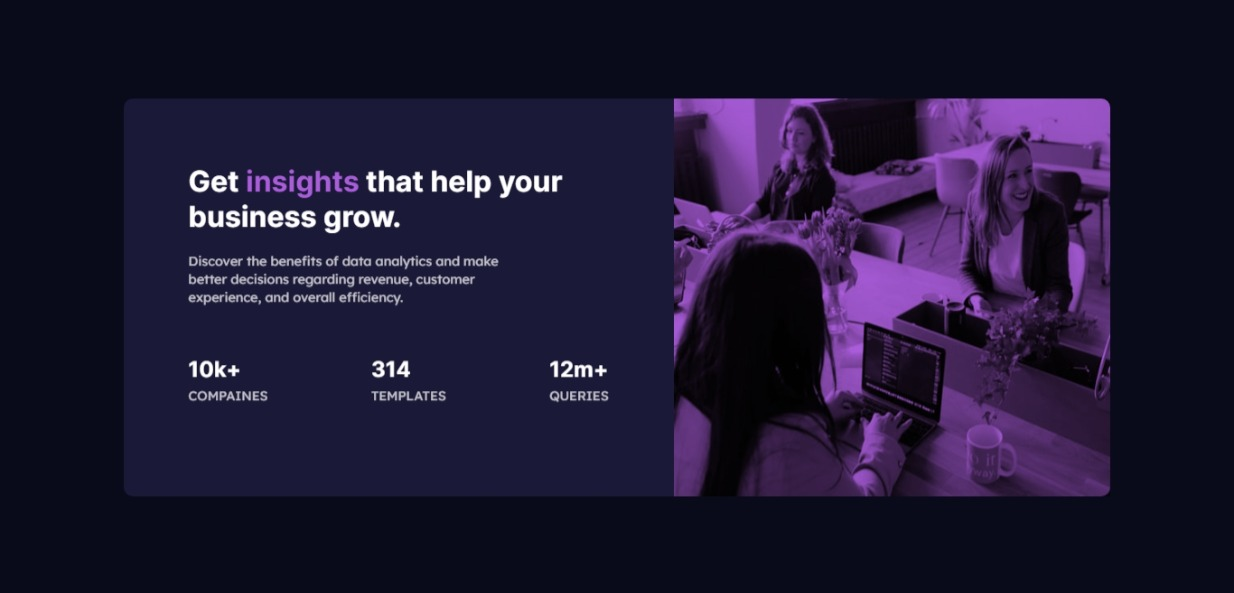
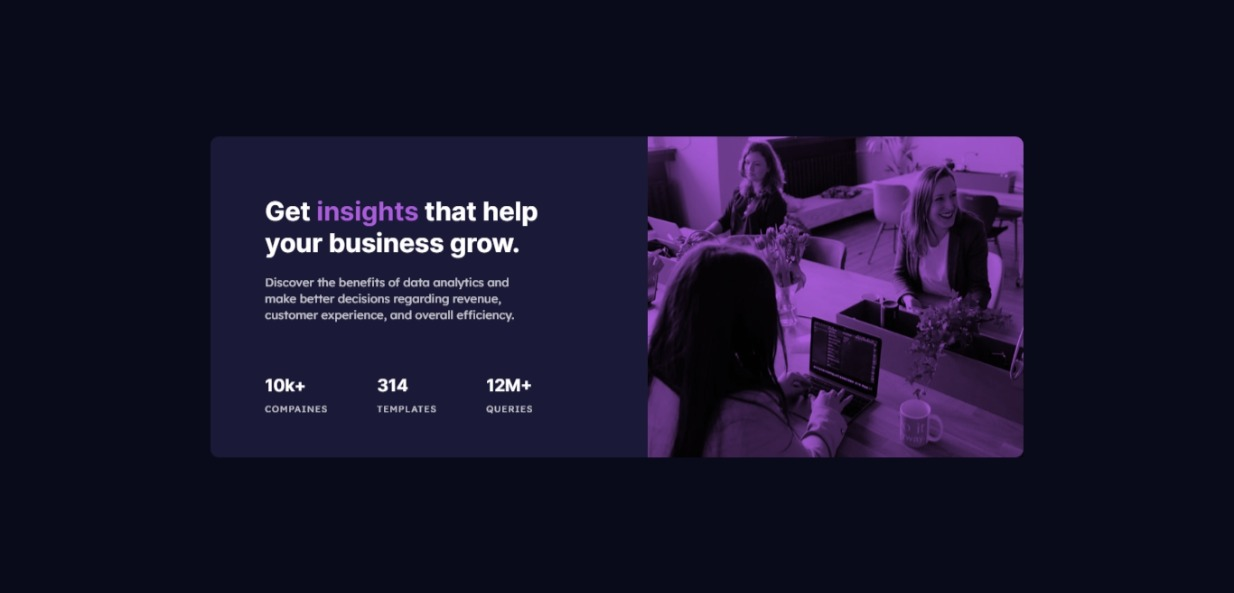
modify

diff --git a/styles.css b/styles.css
@@ -39,12 +39,12 @@ main {
 
 .info {
     width: 50%;
-    margin: 40px 35px 0;
+    margin: 40px 35px 20px;
     padding: 2rem;
 }
 
 h1 {
-    margin-bottom: 1.5rem;
+    margin-bottom: 1.2rem;
     font-size: 2rem;
 }
 
@@ -53,15 +53,16 @@ span.first {
 }
 
 p {
-    font-size: 0.8rem;
-    margin-bottom: 12%;
-    max-width: 320px;
+    font-size: 0.9rem;
+    margin-bottom: 4rem;
+    max-width: 310px;
     line-height: 20px;
+    color: var(--neutral2);
 }
 
 .details {
-    font-weight: 400;
-    font-size: 0.9rem;
+    letter-spacing: 1px;
+    font-size: 0.7rem;
     color: var(--neutral2);
 }
 
@@ -71,12 +72,13 @@ h2 {
 }
 
 h2 {
-    font-size: 1.2rem;
+    font-weight: 700;
+    font-size: 1.3rem;
     margin-bottom: 5px;
 }
 
 .stats {
-    max-width: 350px;
+    max-width: 330px;
     display: flex;
     justify-content: space-between;
 }
@@ -137,6 +139,7 @@ img {
     }
 
     .stats {
+        margin: 0 auto;
         flex-direction: column;
         align-items: center;
     }

diff --git a/index.html b/index.html
@@ -18,7 +18,6 @@
       <div class="info">
         <h1>Get <span class="first">insights</span> that help your business grow.
         </h1>
-
         <p>
           Discover the benefits of data analytics and make better decisions regarding revenue, customer
           experience, and overall efficiency.
@@ -34,15 +33,15 @@
             <span class="details">TEMPLATES</span>
           </div>
           <div class="stat">
-            <h2>12m+</h2>
+            <h2>12M+</h2>
             <span class="details">QUERIES</span>
           </div>
         </div>
       </div>
 
       <div class="img">
-        <img class="mobile" src="./images/image-header-mobile.jpg" alt="">
-        <img class="desktop" src="./images/image-header-desktop.jpg" alt="">
+        <img class="mobile" src="./images/image-header-mobile.jpg" alt="workers">
+        <img class="desktop" src="./images/image-header-desktop.jpg" alt="workers">
       </div>
 
     </div>

diff --git a/README.md b/README.md
@@ -30,8 +30,8 @@ Users should be able to:
 
 ### Links
 
-- Solution URL: [](https://github.com/SoulOfMo/stats-preview-card-component-main.git)
-- Live Site URL: [](soulofmo.github.io/stats-preview-card-component-main/)
+- Solution URL: [Solution](https://github.com/SoulOfMo/stats-preview-card-component-main.git)
+- Live Site URL: [Live Site](soulofmo.github.io/stats-preview-card-component-main/)
 
 ## My process
 
@@ -70,5 +70,5 @@ I will like to continue development on
 
 ## Acknowledgments
 
-- I got inspired by his work  - [@chriskorsak](https://www.frontendmentor.io/profile/chriskorsak) 
+- I learned how to use the mix-blend-mode from his code - [@chriskorsak](https://www.frontendmentor.io/profile/chriskorsak) 
 
